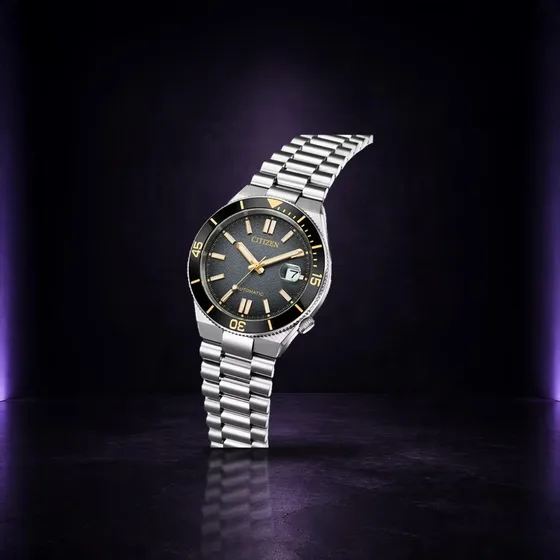
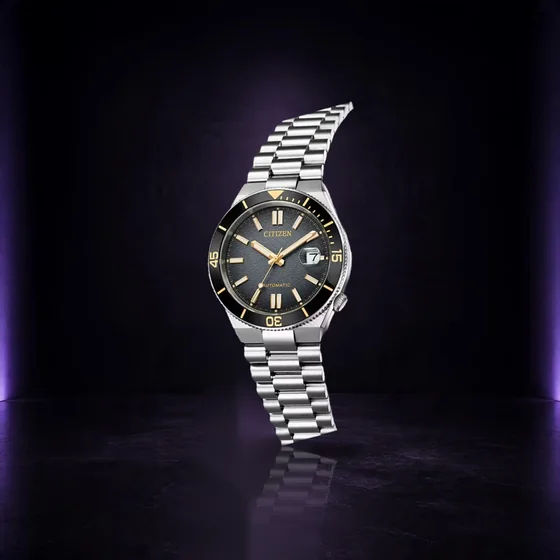
Straighten Citizen Challenge Diver main photo (men-8)
Claude-Session: https://claude.ai/code/session_01H7JDbHqAz1TWm8HZby9oTT

Changed region(s): [[0.3339, 0.1821, 0.6679, 1.0]]

diff --git a/data.js b/data.js
@@ -19,8 +19,8 @@ const PRODUCTS = [
     imgs:["images/products/men-7-1.webp?v=20261023","images/products/men-7-2.webp?v=20261023"],
     dHe:"קוטר 40 מ״מ · לוח כחול קרח בגימור סאנריי · תנועה אוטומטית קליבר 8210 · 21 אבנים · עמיד למים 50מ׳ · אחריות יצרן 5 שנים",
     dEn:"40mm case · Sunray-textured ice blue dial · Automatic Caliber 8210 · 21 jewels · 50m water resistant · 5-year manufacturer warranty" },
-  { id:"men-8", sold:true, cat:"men", brand:"Citizen", name:{he:"Citizen Challenge Diver Automatic (שחור/זהב)", en:"Citizen Challenge Diver Automatic (Black/Gold)"}, price:1290, cond:"new", img:"images/products/men-8-1.webp?v=20261023",
-    imgs:["images/products/men-8-1.webp?v=20261023","images/products/men-8-2.webp?v=20261023"],
+  { id:"men-8", sold:true, cat:"men", brand:"Citizen", name:{he:"Citizen Challenge Diver Automatic (שחור/זהב)", en:"Citizen Challenge Diver Automatic (Black/Gold)"}, price:1290, cond:"new", img:"images/products/men-8-1.webp?v=20261115",
+    imgs:["images/products/men-8-1.webp?v=20261115","images/products/men-8-2.webp?v=20261023"],
     dHe:"קוטר 41 מ״מ · עובי 13.7 מ״מ · לוניטה חד-כיוונית · זכוכית מינרל · תנועה אוטומטית קליבר 8204-21 · עמיד למים 200מ׳",
     dEn:"41mm case, 13.7mm thick · Unidirectional bezel · Mineral crystal · Automatic Caliber 8204-21 · 200m water resistant" },
   { id:"men-9", sold:true, cat:"men", brand:"Hamilton", name:{he:"Hamilton Khaki Field Auto H70455540 (לוח כחול)", en:"Hamilton Khaki Field Auto H70455540 (Blue Dial)"}, price:2390, cond:"new", img:"images/products/men-9-2.webp?v=20261023",
